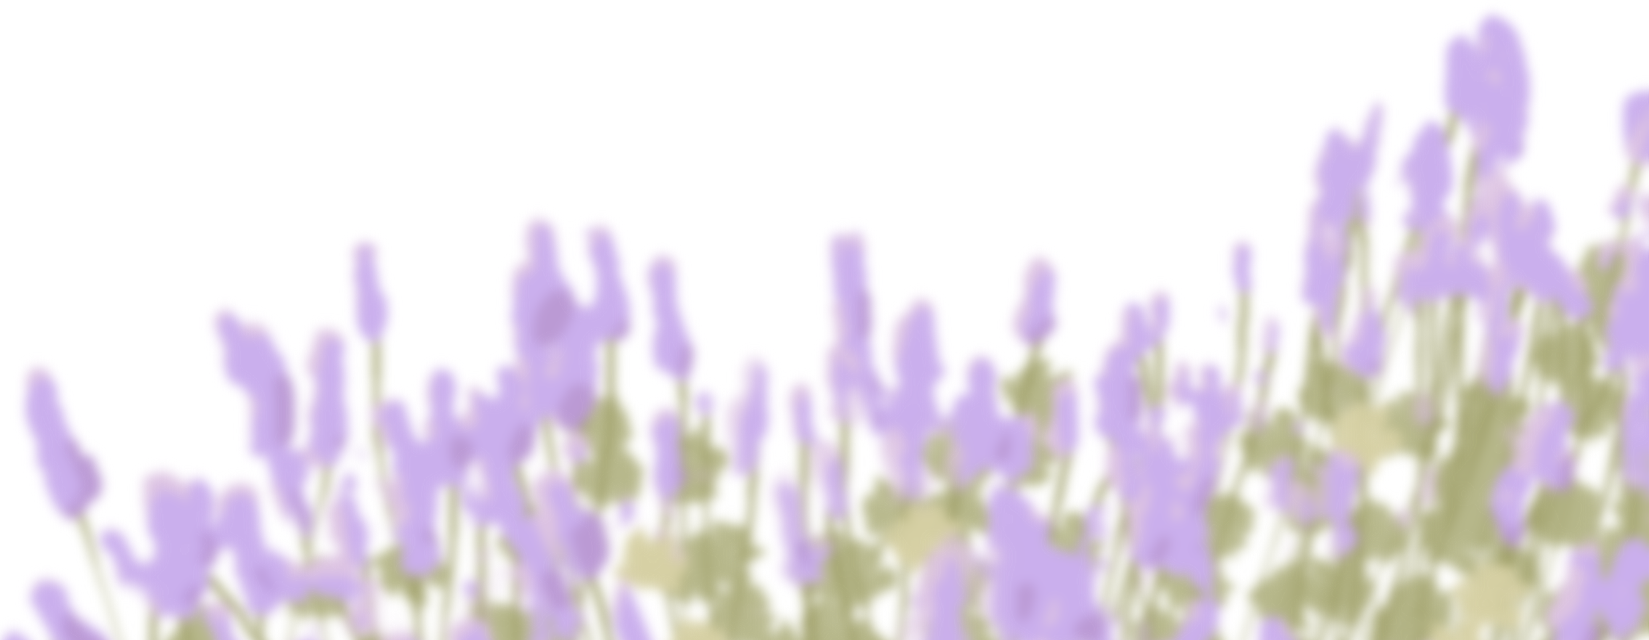
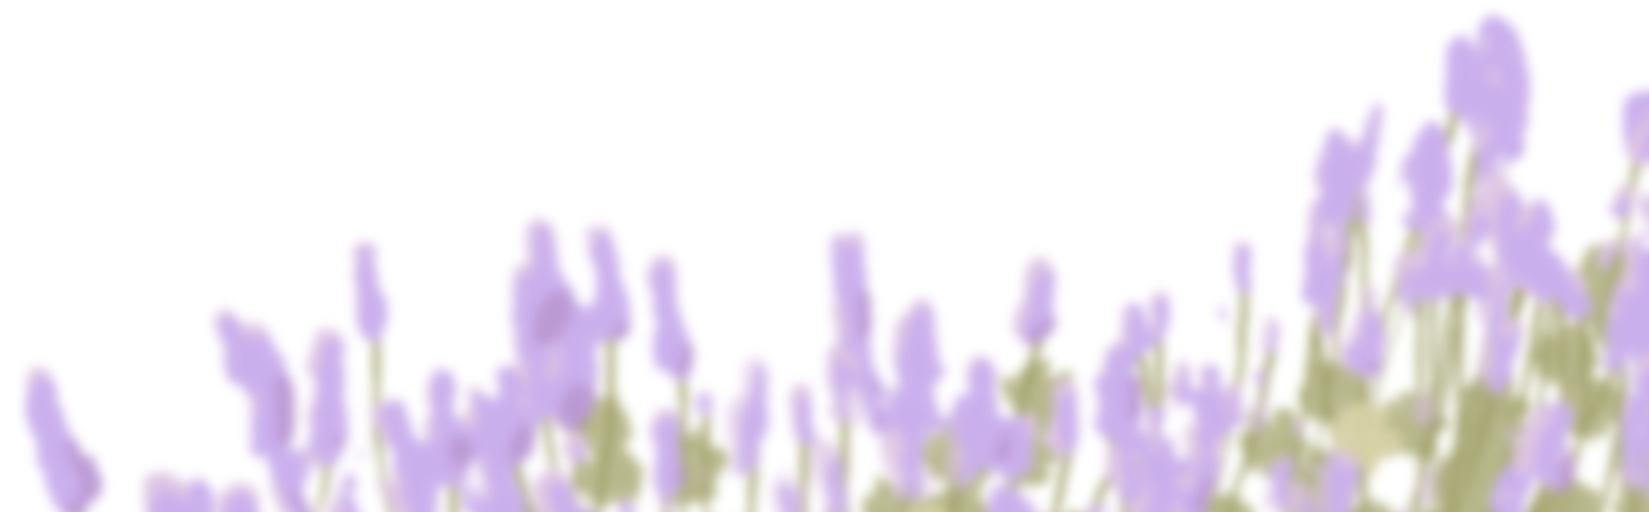
reduce lavender size + fix gradient in FF

diff --git a/src/less/mixins.less b/src/less/mixins.less
@@ -1,10 +1,10 @@
 .gradient (@origin: left, @start: #ffffff, @stop: #000000) {
 	background-color: @stop;
-	background: -webkit-linear-gradient(@origin, @start, @stop);
-	background: -moz-linear-gradient(@origin, @start, @stop);
-	background: -o-linear-gradient(@origin, @start, @stop);
-	background: -ms-linear-gradient(@origin, @start, @stop);
-	background: linear-gradient(@origin, @start, @stop);
+	background-image: -ms-linear-gradient(@origin, @start, @stop);
+	background-image: -webkit-linear-gradient(@origin, @start, @stop);
+	background-image: -o-linear-gradient(@origin, @start, @stop);
+	background-image: linear-gradient(@origin, @start, @stop);
+	background-image: -moz-linear-gradient(@origin, @start, @stop);
 }
 
 .transition (@prop: all, @time: 1s, @ease: linear) {

diff --git a/src/js/index.js b/src/js/index.js
@@ -41,7 +41,7 @@ function init () {
   const $navbar = $('#navbar');
   // handle styles triggered by scroll position
   $( window ).scroll(() => {
-    isLavenderFixed = applyClassAtScrollPosition($lavender, 'fixed', pageHeight + 600, isLavenderFixed);
+    isLavenderFixed = applyClassAtScrollPosition($lavender, 'fixed', pageHeight + 512 - 40, isLavenderFixed);
     isNavbarShown = applyClassAtScrollPosition($navbar, 'on', 1600, isNavbarShown);
   });
 

diff --git a/src/less/amy-and-leon.less b/src/less/amy-and-leon.less
@@ -237,7 +237,7 @@ a{
 
 
 @yandina-height: 740px;
-@lavender-height: 640px;
+@lavender-height: 512px;
 
 .yandina {
   position: absolute;
